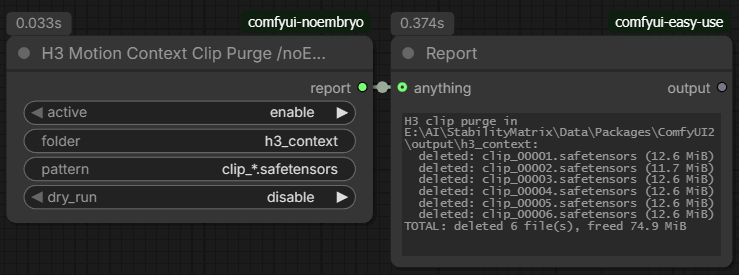
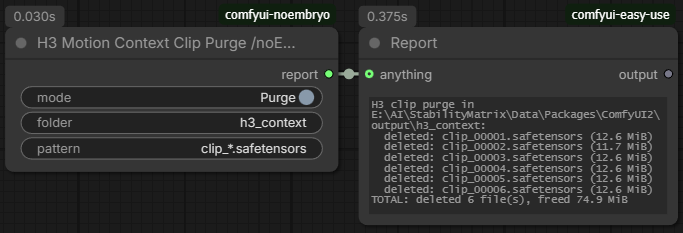
1.6.6

Changed region(s): [[0.0, 0.0, 1.0, 0.8712], [0.5534, 0.9614, 0.9839, 0.9914], [0.8917, 0.3004, 1.0, 0.3605]]

diff --git a/stitcher.py b/stitcher.py
@@ -9,6 +9,7 @@ into Motion Context.
 The archive format is the sampler output, and this node is a final-media assembly tool.
 """
 
+import fnmatch
 import glob
 import logging
 import os
@@ -134,8 +135,7 @@ def _decode_audio(audio_vae, audio_latent):
     audio = audio_vae.decode(audio_latent)
     # Current ComfyUI audio VAE returns [B,L,C]. Convert to [B,C,L].
     if audio.ndim != 3:
-        raise RuntimeError("H3 audio VAE returned unexpected shape %s"
-                           % (tuple(audio.shape),))
+        raise RuntimeError("H3 audio VAE returned unexpected shape %s" % (tuple(images.shape),))
     audio = audio.movedim(-1, 1)
     sr = int(getattr(audio_vae, "audio_sample_rate_output",
                      getattr(audio_vae, "audio_sample_rate", 32000)))
@@ -574,12 +574,100 @@ class H3ContextLatentConverter:
         return (converted,)
 
 
+class H3MotionContextClipPurge:
+    """ Delete the saved H3 Motion Context clip archive files from a folder.
+    """
+    @classmethod
+    def INPUT_TYPES(cls):
+        return {"required": {"mode": ("BOOLEAN", {"default": True,
+            "label_on": "Purge", "label_off": "Preview (dry run)",
+            "tooltip": "Purge (Enabled): delete the matching files.\n"
+                       "Preview (dry run, Disabled): delete nothing; the report "
+                       "just lists the files that would be deleted."}),
+            "folder": ("STRING", {"default": "h3_context",
+            "tooltip": "Folder whose root-level clip archives will be deleted.\n"
+                       "Absolute paths and paths relative to ComfyUI/output are "
+                       "accepted."}),
+            "pattern": ("STRING", {"default": "clip_*.safetensors",
+                "tooltip": "Filename glob. Only root-level FILES matching this "
+                           "pattern are deleted.\nSub-folders are never touched."}), },
+            "hidden": {"mode": "BOOLEAN"}}
+
+    RETURN_TYPES = ("STRING",)
+    RETURN_NAMES = ("report",)
+    FUNCTION = "purge"
+    CATEGORY = "noEmbryo"
+    OUTPUT_NODE = True
+    DESCRIPTION = ("Deletes the numbered h3_motion_context_av_v1 clip archive files "
+                   "at the root of a folder (default: h3_context).\n"
+                   "Purge (Enabled): deletes the files.\n"
+                   "Preview (Disabled): dry run - the report only lists what would "
+                   "be deleted.\nOnly files matching the pattern are removed; "
+                   "sub-folders and everything inside them are left untouched.")
+
+    # noinspection PyUnusedLocal
+    @classmethod
+    def IS_CHANGED(cls, mode, folder, pattern):
+        return float("NaN")
+
+    @staticmethod
+    def purge(mode, folder, pattern):
+        d = _resolve_folder(folder)
+        pattern = (pattern or "clip_*.safetensors").strip()
+
+        doomed = []
+        for entry in os.scandir(d):
+            if entry.is_file(follow_symlinks=False) and not entry.is_dir():
+                if fnmatch.fnmatch(entry.name, pattern):
+                    doomed.append((entry.name, entry.stat().st_size))
+
+        if not mode:  # Preview (dry run)
+            lines = ["H3 clip purge (DRY RUN) in %s - nothing was deleted:" % d]
+            lines += ["  would delete: %s (%s)" % (name, _fmt_size(size))
+                      for name, size in doomed] or ["  no matching files."]
+            lines.append("TOTAL: %d file(s), %s" %
+                         (len(doomed), _fmt_size(sum(s for _, s in doomed))))
+            report = "\n".join(lines)
+            log_.info(report)
+            return (report,)
+
+        deleted = 0
+        freed = 0
+        lines = ["H3 clip purge in %s:" % d]
+        for name, size in doomed:
+            try:
+                os.remove(os.path.join(d, name))
+                deleted += 1
+                freed += size
+                lines.append("  deleted: %s (%s)" % (name, _fmt_size(size)))
+            except OSError as e:
+                lines.append("  FAILED to delete %s: %s" % (name, e))
+        if not deleted and not doomed:
+            lines.append("  no matching files.")
+        lines.append("TOTAL: deleted %d file(s), freed %s" %
+                     (deleted, _fmt_size(freed)))
+        report = "\n".join(lines)
+        log_.info(report)
+        return (report,)
+
+
+def _fmt_size(num_bytes):
+    size = float(num_bytes)
+    for unit in ("B", "KiB", "MiB", "GiB"):
+        if size < 1024.0:
+            return "%.1f %s" % (size, unit)
+        size /= 1024.0
+    return "%.1f TiB" % size
+
+
 NODE_CLASS_MAPPINGS = {
     "H3MotionContextClipStitcher": H3MotionContextClipStitcher,
     "H3ContextLatentConverter": H3ContextLatentConverter,
+    "H3MotionContextClipPurge": H3MotionContextClipPurge,
 }
 
 NODE_DISPLAY_NAME_MAPPINGS = {
     "H3MotionContextClipStitcher": "H3 Motion Context Clip Stitcher",
     "H3ContextLatentConverter": "H3 Context Latent Converter",
+    "H3MotionContextClipPurge": "H3 Motion Context Clip Purge",
 }

diff --git a/nodes.py b/nodes.py
@@ -4,17 +4,18 @@ from os.path import realpath, join, dirname, isabs, splitext, basename
 from datetime import datetime
 import folder_paths
 from .load_image_from_path import LoadImageFromPathEnhanced
-from .stitcher import H3MotionContextClipStitcher, H3ContextLatentConverter
+from .stitcher import (H3MotionContextClipStitcher, H3ContextLatentConverter,
+                       H3MotionContextClipPurge)
 
 MANIFEST = {"name": "noEmbryo Nodes",
-            "version": (1, 6, 5),
+            "version": (1, 6, 6),
             "author": "noEmbryo",
             "project": "https://github.com/noembryo/ComfyUI-noEmbryo",
             "description": "Nodes for ComfyUI",
             "license": "MIT",
             }
 __author__ = "noEmbryo"
-__version__ = "1.6.5"
+__version__ = "1.6.6"
 
 LISTS_PATH = join(dirname(realpath(__file__)), "TermLists")
 
@@ -481,6 +482,7 @@ NODE_CLASS_MAPPINGS = {f"JsonPromptLoader -{__author__}": JsonPromptLoader,
                        f"Auto Save Workflow -{__author__}": AutoSaveWorkflow,
                        f"Load Image (from path) -{__author__}": LoadImageFromPathEnhanced,
                        f"H3MotionContextClipStitcher -{__author__}": H3MotionContextClipStitcher,
+                       f"H3MotionContextClipPurge -{__author__}": H3MotionContextClipPurge,
                        f"H3ContextLatentConverter -{__author__}": H3ContextLatentConverter,
                        "PromptTermList1": PromptTermList1,
                        "PromptTermList2": PromptTermList2,
@@ -496,6 +498,7 @@ NODE_DISPLAY_NAME_MAPPINGS = {f"JsonPromptLoader -{__author__}": f"Json Prompt L
                               f"Auto Save Workflow -{__author__}": f"Auto Save Workflow /{__author__}",
                               f"Load Image (from path) -{__author__}": f"Load Image (from path) /{__author__}",
                               f"H3MotionContextClipStitcher -{__author__}": f"H3 Motion Context Clip Stitcher /{__author__}",
+                              f"H3MotionContextClipPurge -{__author__}": f"H3 Motion Context Clip Purge /{__author__}",
                               f"H3ContextLatentConverter -{__author__}": f"H3 Context Latent Converter /{__author__}",
                               "PromptTermList1": f"PromptTermList 1 /{__author__}",
                               "PromptTermList2": f"PromptTermList 2 /{__author__}",

diff --git a/load_image_from_path.py b/load_image_from_path.py
@@ -19,12 +19,14 @@ from server import PromptServer
 
 
 def _is_url(s) -> bool:
-    """Return True if s looks like an HTTP(S) URL."""
+    """ Return True if s looks like an HTTP(S) URL.
+    """
+    # noinspection HttpUrlsUsage
     return isinstance(s, str) and (s.startswith("http://") or s.startswith("https://"))
 
 
 def _fetch_url_bytes(url: str, timeout: float = 30.0) -> bytes:
-    """Download the bytes of a URL. Raises on any network/HTTP problem.
+    """ Download the bytes of a URL. Raises on any network/HTTP problem.
 
     Embedded Python distributions (StabilityMatrix, ComfyUI portable, ...) often
     ship with a missing or outdated CA bundle, causing CERTIFICATE_VERIFY_FAILED
@@ -46,6 +48,7 @@ def _fetch_url_bytes(url: str, timeout: float = 30.0) -> bytes:
 
     # Strategy 2: use certifi's CA bundle if it's installed.
     try:
+        # noinspection PyUnresolvedReferences
         import certifi
         ctx = ssl.create_default_context(cafile=certifi.where())
         opener = build_opener(HTTPSHandler(context=ctx))
@@ -66,6 +69,7 @@ def _fetch_url_bytes(url: str, timeout: float = 30.0) -> bytes:
               "downloads without certificate validation. Consider installing/"
               "updating the 'certifi' package for secure downloads.")
         _ssl_warning_shown = True
+    # noinspection PyUnresolvedReferences,PyProtectedMember
     ctx = ssl._create_unverified_context()
     opener = build_opener(HTTPSHandler(context=ctx))
     with opener.open(req, timeout=timeout) as resp:

diff --git a/README.md b/README.md
@@ -1,8 +1,11 @@
 # noEmbryo Nodes
 A diverse set of nodes for ComfyUI.  
 - [Json Prompt Loader](#json-prompt-loader)
+- [Load Image (from path)](#load-image-from-path)
 - [Resolution Scale](#resolution-scale)
 - [Regex Text Chopper](#regex-text-chopper)
+- [H3 Motion Context Clip Stitcher](#h3-motion-context-clip-stitcher)
+- [H3 Motion Context Clip Purge](#h3-motion-context-clip-purge)
 - [Auto Save Workflow](#auto-save-workflow)
 - [PromptTermList (1-6)](#prompttermlist-1-6)
 
@@ -141,6 +144,23 @@ No quality loss, like when trying to concatenate encoded videos.
   - **audio**: The final audio stream to be saved
   - **frame_count**: The total number of frames
   - **report**: Logging of some of the node's actions
+
+---
+## H3 Motion Context Clip Purge
+![H3MotionContextClipPurge.png](https://raw.githubusercontent.com/noembryo/ComfyUI-noEmbryo/refs/heads/master/stuff/H3MotionContextClipPurge.png)
+Deletes the numbered `h3_motion_context_av_v1` clip archive files at the root of a folder (default: `h3_context`)  
+Only files matching the pattern are removed; sub-folders and everything inside them are left untouched.
+
+- **Controls**
+  - **mode**: Purge (Enabled): delete the matching files.  
+    Preview (dry run, Disabled): delete nothing; the report just lists the files that would be deleted.
+  - **folder** is the folder whose root-level clip archives will be deleted.  
+    Absolute paths and paths relative to ComfyUI/output are accepted.
+  - **pattern** is the filename glob. Only root-level FILES matching this pattern are deleted.  
+    Sub-folders are never touched.
+- **Outputs**
+  - **report**: Shows the actions of the node.
+
 
 
 ---
